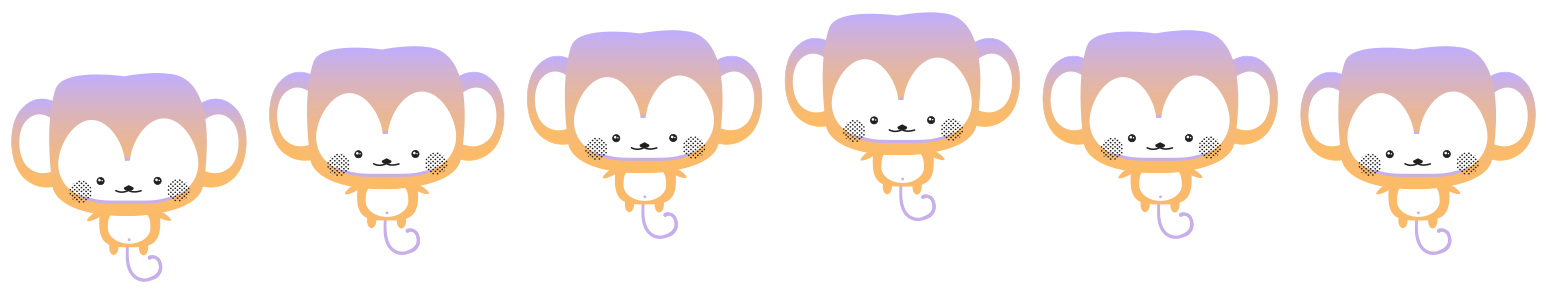
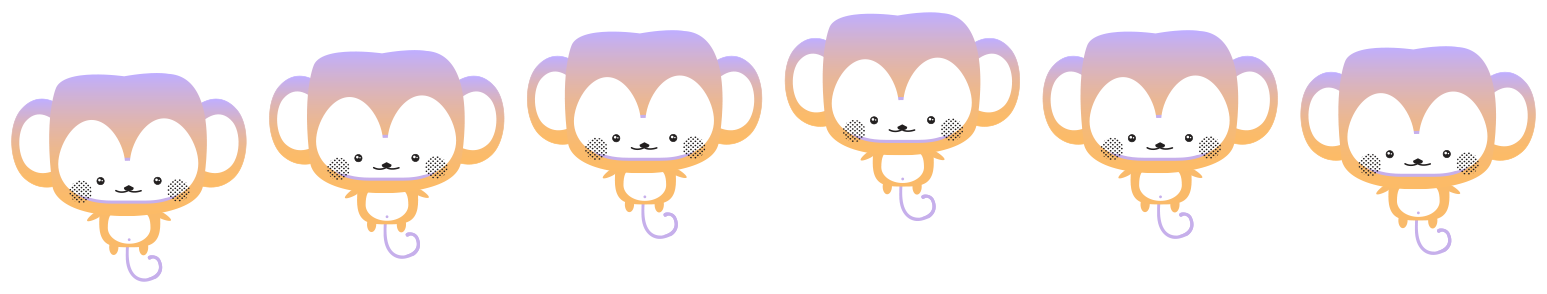
fixed anim images

diff --git a/public/css/animations.css b/public/css/animations.css
@@ -74,15 +74,15 @@
 
 /*  NURSE ANIMATION  */
 .c1-nurse-anim {
-  width: 517px;
-  height: 306px;
+  width: 460px;
+  height: 340px;
   margin: 2% auto;
-  background: url('/img/animation/nursesheetc4.png') left center;
+  background: url('/img/animation/nursesheetc1.png') left center;
   animation: playc1nurse 10s steps(10) infinite;
   margin-top:90px;
 }
 @keyframes playc1nurse {
-  100% { background-position: -5070px; }
+  100% { background-position: -4600px; }
 }
 
 /*  SICK ANIMATION  */
@@ -106,7 +106,7 @@
   width: 229px;
   height: 306px;
   margin: 2% auto;
-  background: url('/img/animation/defaultsheetc1.png') left center;
+  background: url('/img/animation/defaultsheetc2.png') left center;
   animation: playc2default 6s steps(12) infinite;
   margin-top:90px;
 }
@@ -170,15 +170,15 @@
 
 /*DEFAULT ANIMATION */
 .c3-default-anim {
-  width: 229px;
-  height: 360px;
+  width: 228px;
+  height: 400px;
   margin: 2% auto;
   background: url('/img/animation/defaultsheetc3.png') left center;
-  animation: playc3default 6s steps(12) infinite;
+  animation: playc3default 6s steps(6) infinite;
   margin-top:90px;
 }
 @keyframes playc3default {
-  100% { background-position: -2746px; }
+  100% { background-position: -1373px; }
 }
 
 /*  FEED ANIMATION  */
@@ -210,12 +210,12 @@
 .c3-nurse-anim {
   width: 460px;
   height: 340px;
-  background: url('/img/animation/nursesheetc4.png') 0 0 no-repeat; 
+  background: url('/img/animation/nursesheetc3.png') 0 0 no-repeat; 
   animation: playc3nurse 11s steps(10) infinite;
   margin-top:90px;
 }
 @keyframes playc3nurse {
-  100% { background-position: 0 -4600px; }
+  100% { background-position: -4600px; }
 }
 
 /*  SICK ANIMATION  */
@@ -236,14 +236,14 @@
 
 /*DEFAULT ANIMATION */
 .c4-default-anim {
-  width: 258px;
+  width: 257px;
   height: 294px;
   margin: 2% auto;
   background: url('/img/animation/defaultsheetc4.png') left center;
-  animation: playc3default 6s steps(12) infinite;
+  animation: playc4default 6s steps(6) infinite;
   margin-top:90px;
 }
-@keyframes playc3default {
+@keyframes playc4default {
   100% { background-position: -1547px; }
 }
 
